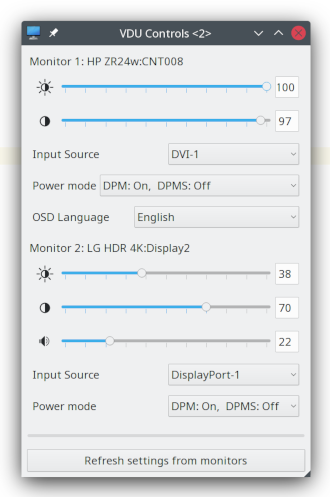
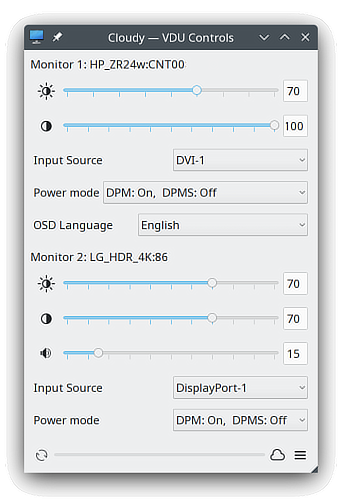
Refreshing the help for v1.7 changes.

Changed region(s): [[0.0, 0.0302, 1.0, 0.996]]

diff --git a/vdu_controls.py b/vdu_controls.py
@@ -3,7 +3,7 @@
 vdu_controls: A Qt GUI wrapper for ddcutil
 ==========================================
 
-A GUI for controlling connected *Visual Display Units* (*VDU*'s) (also known as *displays*, or *monitors*).
+A control panel for external monitors (*Visual Display Units*).
 
 Usage:
 ======
@@ -43,28 +43,37 @@ Optional arguments:
 Description
 ===========
 
-``vdu_controls`` is a virtual control panel for physically connected VDU's.  It displays a set of controls for
-each  DVI/DP/HDMI/USB connected VDU and uses the ``ddcutil`` command line utility to issue *Display Data Channel*
-(*DDC*) *Virtual Control Panel*  (*VCP*) commands to each of them. The intent is not to provide a comprehensive set
-of controls but rather to provide a simple panel with a selection of essential controls for the desktop.
+``vdu_controls`` is a virtual control panel for externally connected VDU's.  The application detects
+DVI, DP, HDMI, or USB connected VDU's.  It provides controls for settings such as brightness and contrast.
 
-A context menu containing this help is available by pressing the right-mouse button either in the main user interface
-or on the system-tray icon.  ``vdu_controls`` may be run as a system-tray entry by using the ``--system-tray`` option.
+The application interacts with VDU's via the VESA *Display Data Channel* (*DDC*) *Virtual Control Panel*  (*VCP*)
+commands set.  DDC VCP interactions are mediated by the ``ddcutil`` command line utility.  ``Ddcutil`` provides
+a robust interface that is tolerant of the vagaries of the many OEM DDC implementations.
 
-By default, ``vdu_controls`` offers a subset of possible controls including brightness and contrast.  Additional controls
-can be added by using the ``--enable-vcp-code`` option to add any other codes supported by ``ddcutil``.  The full list
-of VCP codes supported by ``ddcutil`` can be listed by running ``ddcutil vcpinfo --verbose``. For example, the
-VCP code 66 is listed as an on/off control for an ambient light sensor, this can be enabled for ``vdu_controls`` by
-passing ``--enable-vcp-code 66`` (the control will only appear in the user interface if the VDU reports that it
-has that capability).
+By default, ``vdu_controls`` offers a subset of controls including brightness, contrast and audio controls.  Additional
+controls can be enabled via the ``Settings`` dialog.
+
+``vdu_controls`` may optionally run as an entry in the system tray of KDE, Deepin, and GNOME. The UI automatically
+adapts to the quirks of the different tray implementations.
+
+Named ``Preset`` configurations can be saved for later recalled. For example, a user could create
+presets for night, day, photography, movies, and so forth.
+
+The UI's look-and-feel dynamically adjusts to the desktop theme.  Colors and icons automatically
+reconfigure without the need for a restart when changing between light and dark themes.
+
+A context menu containing this help is available by pressing the right-mouse button either in the main
+control panel or on the system-tray icon.  The context menu is also available via a hamburger-menu item on the
+bottom right of the main control panel.
 
 Builtin laptop displays normally don't implement DDC and those displays are not supported, but a laptop's
 externally connected VDU's are likely to be controllable.
 
 Some controls change the number of connected devices (for example, some VDU's support a power-off command). If
-such controls are used, ``vdu_controls`` will detect the change and will restart itself to reconfigure the controls
-for the new situation (for example, DDC VDU 2 may now be DD VDU 1).  Similarly, if you physically unplug monitor, the
-same thing will happen.
+such controls are used, ``vdu_controls`` will detect the change and will reconfigure the controls
+for the new situation (for example, DDC VDU 2 may now be DD VDU 1).  If you change settings independently of
+``vdu_controls``, for example, by using a VDU's physical controls,  the ``vdu_controls`` UI includes a refresh
+button to force it to assess the new configuration.
 
 Note that some VDU settings may disable or enable other settings. For example, setting a monitor to a specific
 picture-profile might result in the contrast-control being disabled, but ``vdu_controls`` will not be aware of
@@ -73,15 +82,17 @@ the restriction resulting in its contrast-control erring or appearing to do noth
 Configuration
 =============
 
-Configuration is supplied via command line parameters and config-files.  The command line provides an immediate way
-to temporarily alter the behaviour of the application. The config files provide a more comprehensive and permanent
+Configuration changes can be made via the ``Settings`` dialog or via command line parameters (or by editing the
+config-files directly).  The command line provides an immediate way to temporarily alter the behaviour of
+the application. The Settings-Dialog and config files provide a more comprehensive and permanent
 solution for altering the application's configuration.
 
 Settings Menu and Config files
 ------------------------------
 
-The right-mouse context-menu ``Settings`` item can be used to customise the application by writing to a set of config
-files.  The ``Settings`` item will feature a tab for editing each config file.  The config files are named according
+The right-mouse - context-menu - ``Settings`` accesses the Settings dialog which can be used to
+customise the application by writing to a set of config files.  The ``Settings`` dialog features a tab for
+editing a config file specific to each VDU.  The config files are named according
 to the following scheme:
 
  - Application wide default config: ``$HOME/.config/vdu_controls/vdu_controls.conf``
@@ -173,19 +184,18 @@ A custom named preset can be used to save the current VDU settings for later rec
 created to suit different lighting conditions or different applications, for example: *Night*, *Day*, *Overcast*,
 *Sunny*, *Photography*, and *Video*.
 
-
 Presets can be assigned a name and icon.  If the current monitor settings match a preset, the preset's name will show
 in the window-title and tray tooltip, the preset's icon will overlay the normal tray icon.
 
-The ``Presets`` item in right-mouse ``context-menu`` will bring up a dialog for managing and applying presets.
-The ``context-menu`` also includes a shortcut for applying each existing presets. Any small SVG or PNG can be
-selected as a preset's icon.  Monochrome SVG icons that conform to the Plasma color conventions will be automatically
-inverted if the desktop them is changed from dark to light.
+The ``Presets`` item in right-mouse ``context-menu`` will bring up a ``Presets`` dialog for managing and applying
+presets.  The ``context-menu`` also includes a shortcut for applying each existing presets.
 
-The preset files are named as follows: ``$HOME/.config/vdu_controls/Preset_<preset_name>.conf``
+Any small SVG or PNG can be selected as a preset's icon.  Monochrome SVG icons that conform to the Plasma color
+conventions will be automatically inverted if the desktop them is changed from dark to light.
 
-Presets are saved in INI-file format for ease of editing.  Each preset file contains a section for each connected
-VDU, something similar to the following example::
+Each preset is stored in the application config directory as ``$HOME/.config/vdu_controls/Preset_<preset_name>.conf``.
+Preset files are saved in INI-file format for ease of editing.  Each preset file contains a section for each connected
+VDU, for example::
 
     [preset]
     icon = /usr/share/icons/breeze/status/16/cloudstatus.svg
@@ -199,9 +209,8 @@ VDU, something similar to the following example::
     audio-speaker-volume = 16
     input-source = 0f
 
-Whe the GUI is used to create a preset file it saves a value for every VDU and every visible control.  A preset
-file need not include all VDu's or settings, it can be manually edited to remove VDU's and settings that aren't
-desired.
+When the GUI is used to create a preset file, your can select which controls to save.  For example, you
+might create a preset that includes only the brightness, but the contrast or audio volume.
 
 Presets - remote control
 ------------------------

diff --git a/README.md b/README.md
@@ -1,24 +1,27 @@
 vdu_controls - a GUI wrapper for ddcutil
 ========================================
 
-A GUI for controlling connected *Visual Display Units* (*VDU*'s) (also known as *displays*, or *monitors*).
+A control panel for external monitors (*Visual Display Units*).
 
 Description
 -----------
 
-``vdu_controls`` is a virtual control panel for physically connected VDU's.  It displays a set of controls for
-each  DVI/DP/HDMI/USB connected VDU and uses the ``ddcutil`` command line utility to issue *Display Data Channel*
-(*DDC*) *Virtual Control Panel*  (*VCP*) commands to each of them.
+``vdu_controls`` is a virtual control panel for externally connected VDU's.  The application detects 
+DVI, DP, HDMI, or USB connected VDU's.  It provides controls for settings such as brightness and contrast.
 
-By default ``vdu_controls`` offers a subset of the possible controls including brightness, and contrast.  Additional 
-controls can be enabled via the ``--enable-vcp-code`` option.  ``vdu_controls`` may optionally run as an entry in the 
-system tray.  
+The application interacts with VDU's via the VESA *Display Data Channel* (*DDC*) *Virtual Control Panel*  (*VCP*) 
+commands set.  DDC VCP interactions are mediated by the ``ddcutil`` command line utility.  ``Ddcutil`` provides
+a robust interface that is tolerant of the vagaries of the many OEM DDC implementations.
 
-User named ``Preset`` configurations can be saved and recalled, for example, a user could create
-presets for night, day, sunny and so forth.
+By default ``vdu_controls`` offers a subset of controls including brightness, contrast and audio controls.  Additional
+controls can be enabled via the ``Settings`` dialog.  ``vdu_controls`` may optionally run as an entry in the
+system tray.
 
-The UI's look-and-feel dynamically adjusts to the desktop theme and desktop environment (light-theme, dark-theme, 
-KDE, Deepin, GNOME, ...).
+Named ``Preset`` configurations can be saved for later recalled. For example, a user could create
+presets for night, day, photography, movies, and so forth.
+
+The UI's look-and-feel dynamically adjusts to the desktop theme and desktop environment: light-theme,
+dark-theme, KDE, Deepin, GNOME, and others.
 
 ![Default](screen-shots/Screenshot_Large-330.png)  ![Custom](screen-shots/Screenshot_Small-227.png) 
 ![Custom](screen-shots/Screenshot_tray-200.png) ![Custom](screen-shots/Screenshot_settings-300.png)
@@ -139,8 +142,8 @@ Both brief help and detailed help can also be accessed via the command line:
 Whether run from the desktop application-menu or run from the command line, ``vdu-controls`` behaviour can be altered
 in a number of ways:
 
-* Command line options.
 * The `Settings` item in the context-menu.
+* Command line options.
 * Configurations files in `$HOME/.config/vdu_controls/`
 
 See the context-menu or the  [man page](https://htmlpreview.github.io/?https://raw.githubusercontent.com/digitaltrails/vdu_controls/master/docs/_build/man/vdu_controls.1.html)
